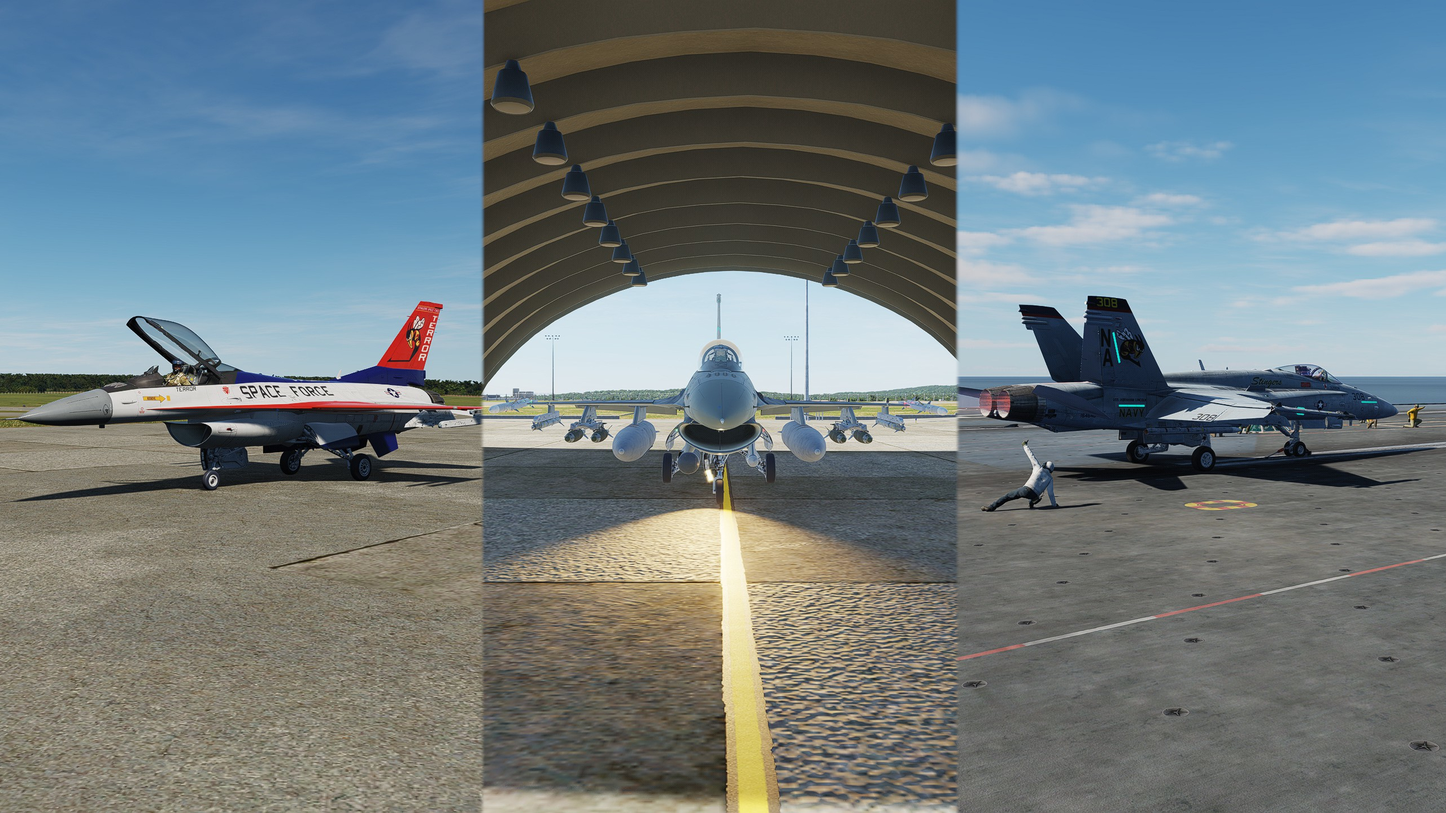
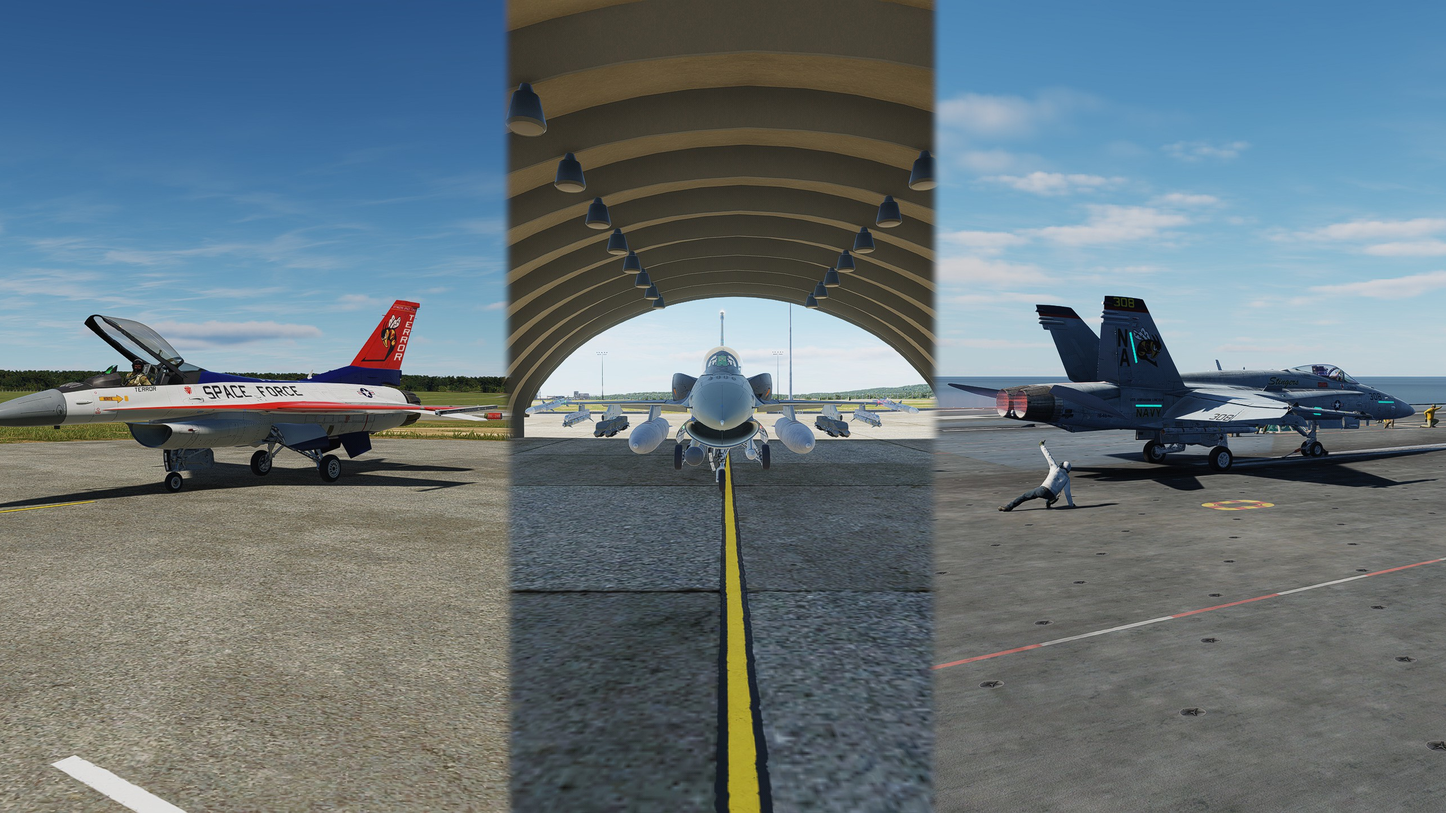
Removed Tumblr, and remake Images

diff --git a/index.html b/index.html
@@ -32,7 +32,7 @@
                 </div>
                 </nav>
                 <div class="active">
-                    <iframe width="560" height="315" src="https://www.youtube.com/embed/gVSNrkWdEMQ?si=uWmCu9-oYHIqqdYG" title="YouTube video player" frameborder="0" allow="accelerometer; autoplay; clipboard-write; encrypted-media; gyroscope; picture-in-picture; web-share" referrerpolicy="strict-origin-when-cross-origin" allowfullscreen></iframe>
+                    <iframe width="560" height="315" src="https://www.youtube.com/embed/gVSNrkWdEMQ?si=S0KP3GmOIBhVwJTz" title="YouTube video player" frameborder="0" allow="accelerometer; autoplay; clipboard-write; encrypted-media; gyroscope; picture-in-picture; web-share" referrerpolicy="strict-origin-when-cross-origin" allowfullscreen></iframe>
                     <h2><x id="welcome">Welcome to Terengineer!</x></h2>
                     <p id="shoutout">Subscribe, Like👍, Follow, and Shout-out📢 Terengineer!</p>
                     <a href="https://streamelements.com/terengineer/tip" class="hero-btn" target="_blank"><i class="fa-solid fa-circle-dollar-to-slot"></i><span id="link1"></i>Donate!~</span></a>
@@ -45,23 +45,21 @@
                     <div style="height: 2.5px; overflow: hidden;"></div>
                     <a href="https://twitter.com/TerengineerYT" class="hero-btn" target="_blank"><i class="fa-brands fa-x-twitter"></i><span id="link5"></i>Follow my X (Twitter)!~</span></a>
                     <div style="height: 2.5px; overflow: hidden;"></div>
-                    <a href="http://terengineer.tumblr.com/" class="hero-btn" target="_blank"><i class="fa-brands fa-tumblr"></i><span id="link6"></i>Follow my Tumblr!~</span></a>
+                    <a href="https://www.facebook.com/TerengineerYT/" class="hero-btn" target="_blank"><i class="fa-brands fa-facebook"></i><span id="link6"></i>Follow my Facebook!~</span></a>
                     <div style="height: 2.5px; overflow: hidden;"></div>
-                    <a href="https://www.facebook.com/TerengineerYT/" class="hero-btn" target="_blank"><i class="fa-brands fa-facebook"></i><span id="link7"></i>Follow my Facebook!~</span></a>
+                    <a href="https://www.instagram.com/terengineer/" class="hero-btn" target="_blank"><i class="fa-brands fa-instagram"></i><span id="link7"></i>Follow my Instagram!~</span></a>
                     <div style="height: 2.5px; overflow: hidden;"></div>
-                    <a href="https://www.instagram.com/terengineer/" class="hero-btn" target="_blank"><i class="fa-brands fa-instagram"></i><span id="link8"></i>Follow my Instagram!~</span></a>
+                    <a href="https://discord.gg/HpY6VGK" class="hero-btn" target="_blank"><i class="fa-brands fa-discord"></i><span id="link8"></i>Join my Discord (THIS IS 100% REAL, NOT FAKED, LIED, JOKING, AND KIDDING)!~</span></a>
                     <div style="height: 2.5px; overflow: hidden;"></div>
-                    <a href="https://discord.gg/HpY6VGK" class="hero-btn" target="_blank"><i class="fa-brands fa-discord"></i><span id="link9"></i>Join my Discord (THIS IS 100% REAL, NOT FAKED, LIED, JOKING, AND KIDDING)!~</span></a>
+                    <a href="https://www.twitch.tv/terengineer/" class="hero-btn" target="_blank"><i class="fa-brands fa-twitch"></i><span id="link9"></i>Follow my Twitch!~</span></a>
                     <div style="height: 2.5px; overflow: hidden;"></div>
-                    <a href="https://www.twitch.tv/terengineer/" class="hero-btn" target="_blank"><i class="fa-brands fa-twitch"></i><span id="link10"></i>Follow my Twitch!~</span></a>
+                    <a href="https://www.tiktok.com/@terengineer" class="hero-btn" target="_blank"><i class="fa-brands fa-tiktok"></i><span id="link10">Follow my Tiktok!~</span></a>
                     <div style="height: 2.5px; overflow: hidden;"></div>
-                    <a href="https://www.tiktok.com/@terengineer" class="hero-btn" target="_blank"><i class="fa-brands fa-tiktok"></i><span id="link11">Follow my Tiktok!~</span></a>
+                    <a href="https://terengineer.fandom.com/wiki/Terengineer_Wiki" class="hero-btn" target="_blank"><i class="fa-brands fa-wikipedia-w"></i><span id="link11">Look at my wiki!~</span></a>
                     <div style="height: 2.5px; overflow: hidden;"></div>
-                    <a href="https://terengineer.fandom.com/wiki/Terengineer_Wiki" class="hero-btn" target="_blank"><i class="fa-brands fa-wikipedia-w"></i><span id="link12">Look at my wiki!~</span></a>
+                    <a href="https://soundcloud.com/terengineer" class="hero-btn" target="_blank"><i class="fa-brands fa-soundcloud"></i><span id="link12">Follow my SoundCloud (Listen on the Track)!~</span></a>
                     <div style="height: 2.5px; overflow: hidden;"></div>
-                    <a href="https://soundcloud.com/terengineer" class="hero-btn" target="_blank"><i class="fa-brands fa-soundcloud"></i><span id="link13">Listen my Soundcloud!~</span></a>
-                    <div style="height: 2.5px; overflow: hidden;"></div>
-                    <a href="http://terengineer.newgrounds.com/follow" class="hero-btn" target="_blank"><img src="images/ng_logo.png"><span id="link14">Follow my Newgrounds!~</span></a>
+                    <a href="http://terengineer.newgrounds.com/follow" class="hero-btn" target="_blank"><img src="images/ng_logo.png"><span id="link13">Follow my Newgrounds!~</span></a>
                     <div style="height: 2.5px; overflow: hidden;"></div>
                 </div>
             </header>

diff --git a/language.js b/language.js
@@ -14,15 +14,14 @@ const translations = {
         link3:"Join Terengineer Member Fan!~",
         link4:"Subscribe!~",
         link5:"Follow my X (Twitter)!~",
-        link6:"Follow my Tumblr!~",
-        link7:"Follow my Facebook!~",
-        link8:"Follow my Instagram!~",
-        link9:"Join my Discord (THIS IS 100% REAL, NOT FAKED, LIED, JOKING, AND KIDDING)!~",
-        link10:"Follow my Twitch!~",
-        link11:"Follow my Tiktok!~",
-        link12:"Look at my wiki!~",
-        link13:"Listen my Soundcloud!~",
-        link14:"Follow My Newgrounds!~",
+        link6:"Follow my Facebook!~",
+        link7:"Follow my Instagram!~",
+        link8:"Join my Discord (THIS IS 100% REAL, NOT FAKED, LIED, JOKING, AND KIDDING)!~",
+        link9:"Follow my Twitch!~",
+        link10:"Follow my Tiktok!~",
+        link11:"Look at my wiki!~",
+        link12:"Follow my SoundCloud (Listen on the Track)!~",
+        link13:"Follow My Newgrounds!~",
     },
     zhcn:{
         line1:"主選單",
@@ -37,16 +36,15 @@ const translations = {
         link2:"商品（英文版）!~",
         link3:"加入阿祐先生的會員（英文版）!~",
         link4:"訂閱!~",
-        link5:"跟隨我的X（Twitter）（英文版）!~",
-        link6:"跟隨我的Tumblr（英文版）!~",
-        link7:"跟隨我的FB（英文版）!~",
-        link8:"跟隨我的IG（英文版）!~",
-        link9:"加入我的DC（這是真實的100%，不是假的、說謊、和開玩笑）!~",
-        link10:"跟隨我的Twitch（英文版）!~",
-        link11:"跟隨我的Tiktok（英文版）!~",
-        link12:"查看我的wiki（英文版）!~",
-        link13:"聆聽我的Soundcloud（英文版）!~",
-        link14:"跟隨我的Newgrounds（英文版）!~",
+        link5:"跟隨我的 X（Twitter）（英文版）!~",
+        link6:"跟隨我的 FB（英文版）!~",
+        link7:"跟隨我的 IG（英文版）!~",
+        link8:"加入我的 DC（這是真實的100%，不是假的、說謊、和開玩笑）!~",
+        link9:"跟隨我的 Twitch（英文版）!~",
+        link10:"跟隨我的 Tiktok（英文版）!~",
+        link11:"查看我的 Wiki（英文版）!~",
+        link12:"跟隨我的 SoundCloud（聆聽專輯）（英文版）!~",
+        link13:"跟隨我的 Newgrounds（英文版）!~",
     },
     /*About*/
     abouten:{
@@ -380,7 +378,6 @@ const setLanugage = (language) => {
         link11.innerText = translations.zhcn.link11;
         link12.innerText = translations.zhcn.link12;
         link13.innerText = translations.zhcn.link13;
-        link14.innerText = translations.zhcn.link14;
     }
     else if (language == "en"){
         line1.innerText = translations.en.line1;
@@ -404,7 +401,6 @@ const setLanugage = (language) => {
         link11.innerText = translations.en.link11;
         link12.innerText = translations.en.link12;
         link13.innerText = translations.en.link13;
-        link14.innerText = translations.en.link14;
     };
     /*About*/
     if (language == "aboutzhcn"){

diff --git a/about.html b/about.html
@@ -33,7 +33,7 @@
                 </nav>
                 <div class="about">
                     <h1><span id="who">Who is Terengineer?</span></h1>
-                    <b class="about-img"><img src="images/Big pic 2.jpg"></b>
+                    <b class="about-img"><img src="images/IMG_20260812_021551483.jpg"></b>
                     <p id="abouttext1">Hello Niece, and Nephew, Ladies, and Gentlemen, it's me.</p>
                     <p id="abouttext2">I'm The Gaming, Earthquake Monitoring, and Live Streamer.</p>
                     <p id="abouttext3">My nationality from Taiwan (ROC).</p>
@@ -56,8 +56,6 @@
                      <div class="rules-hero-btn3">
                         <div class="rules-hero-btn2">
                     <ui><a href="https://x.com/TerengineerYT/status/1802348602112852371" class="rules-hero-btn" target="_blank"><i class="fa-brands fa-x-twitter"></i>X (Twitter)</a>
-                    <div style="height: 2.5px;"></div></ui>
-                    <ui><a href="https://www.tumblr.com/terengineer/753452800835518464/breaking-news-everyone-terengineers-rules-has?source=share" class="rules-hero-btn" target="_blank"><i class="fa-brands fa-tumblr"></i>Tumblr</a>
                     <div style="height: 2.5px;"></div></ui>
                     <ui><a href="https://www.instagram.com/p/C8R7JddS4cA/?utm_source=ig_web_copy_link&igsh=MzRlODBiNWFlZA%3D%3D" class="rules-hero-btn" target="_blank"><i class="fa-brands fa-instagram"></i>Instagram (IG)</a>
                     <div style="height: 2.5px;"></div></ui>
@@ -82,11 +80,9 @@
                     <div style="height: 2.5px;"></div></ui>
                           </div>
                     </div>
-                     <div class="rules-hero-btn3">
+                    <div class="rules-hero-btn3">
                         <div class="rules-hero-btn2">
                     <ui><a href="https://x.com/TerengineerYT/status/2113665959382892865?a=cJHHB5ekvdtLJOfcmlY&s=20" class="rules-hero-btn" target="_blank"><i class="fa-brands fa-x-twitter"></i>X (Twitter)</a>
-                    <div style="height: 2.5px;"></div></ui>
-                    <ui><a href="https://www.tumblr.com/terengineer/831282032673980416/big-announcement-niece-and-nephew-ladies-and?source=share" class="rules-hero-btn" target="_blank"><i class="fa-brands fa-tumblr"></i>Tumblr</a>
                     <div style="height: 2.5px;"></div></ui>
                     <ui><a href="https://www.instagram.com/p/De19_P7E6VV/?utm_source=ig_web_copy_link&cplk=MzRlODBiNWFlZA%3D%3D&srtk=MzRlODBiNWFlZA%3D%3D" class="rules-hero-btn" target="_blank"><i class="fa-brands fa-instagram"></i>Instagram (IG)</a>
                     <div style="height: 2.5px;"></div></ui>

diff --git a/rules.html b/rules.html
@@ -68,8 +68,6 @@
                         <div class="rules-hero-btn2">
                     <ui><a href="https://x.com/TerengineerYT/status/1802348602112852371" class="rules-hero-btn" target="_blank"><i class="fa-brands fa-x-twitter"></i>X (Twitter)</a>
                     <div style="height: 2.5px;"></div></ui>
-                    <ui><a href="https://www.tumblr.com/terengineer/753452800835518464/breaking-news-everyone-terengineers-rules-has?source=share" class="rules-hero-btn" target="_blank"><i class="fa-brands fa-tumblr"></i>Tumblr</a>
-                    <div style="height: 2.5px;"></div></ui>
                     <ui><a href="https://www.instagram.com/p/C8R7JddS4cA/?utm_source=ig_web_copy_link&igsh=MzRlODBiNWFlZA%3D%3D" class="rules-hero-btn" target="_blank"><i class="fa-brands fa-instagram"></i>Instagram (IG)</a>
                     <div style="height: 2.5px;"></div></ui>
                         </div>
@@ -96,8 +94,6 @@
                      <div class="rules-hero-btn3">
                         <div class="rules-hero-btn2">
                     <ui><a href="https://x.com/TerengineerYT/status/2113665959382892865?a=cJHHB5ekvdtLJOfcmlY&s=20" class="rules-hero-btn" target="_blank"><i class="fa-brands fa-x-twitter"></i>X (Twitter)</a>
-                    <div style="height: 2.5px;"></div></ui>
-                    <ui><a href="https://www.tumblr.com/terengineer/831282032673980416/big-announcement-niece-and-nephew-ladies-and?source=share" class="rules-hero-btn" target="_blank"><i class="fa-brands fa-tumblr"></i>Tumblr</a>
                     <div style="height: 2.5px;"></div></ui>
                     <ui><a href="https://www.instagram.com/p/De19_P7E6VV/?utm_source=ig_web_copy_link&cplk=MzRlODBiNWFlZA%3D%3D&srtk=MzRlODBiNWFlZA%3D%3D" class="rules-hero-btn" target="_blank"><i class="fa-brands fa-instagram"></i>Instagram (IG)</a>
                     <div style="height: 2.5px;"></div></ui>

diff --git a/style.css b/style.css
@@ -16,6 +16,10 @@
 body{
     min-height: 100vh;
     background: linear-gradient(110deg, hsl(219, 48%, 32%), hsl(219, 48%, 32%));
+    background-image: url('images/Background 2560 x 1440.jpg');
+    height: 100vh;
+    background-size: cover;
+    background-position: center center;
 }
 img{
     width: 250px;
@@ -23,11 +27,21 @@ img{
 img img{
     width: 175px;
 }
-body{
-    background-image: url('images/Background 2560 x 1440.jpg');
-    height: 100vh;
-    background-size: cover;
-    background-position: center center;
+@media screen and (min-width: 600px)
+{
+    /* Add styling here you wish to add for screens with a width of 600px and wider */
+
+    figure {
+      display: flex;
+    }
+
+    figcaption {
+      width: 100%;
+    }
+
+    .equipment {
+      flex-direction: row-reverse;
+    }
 }
 /*Index*/
 .big-container{
@@ -701,22 +715,6 @@ header{
     display: inline-block;
     padding: 8px 12px;
     position: relative;
-}
-@media screen and (min-width: 600px)
-{
-    /* Add styling here you wish to add for screens with a width of 600px and wider */
-
-    figure {
-      display: flex;
-    }
-
-    figcaption {
-      width: 100%;
-    }
-
-    .equipment {
-      flex-direction: row-reverse;
-    }
 }
 /*Disclaimer Warning*/
 .disclaimerwarning-big-container{
